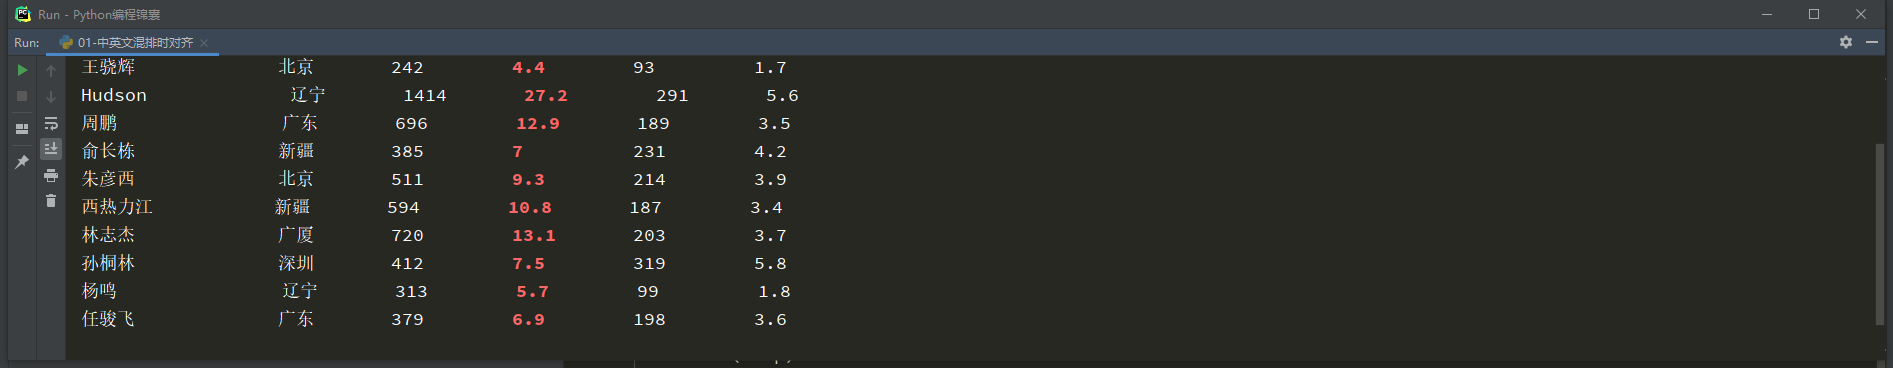
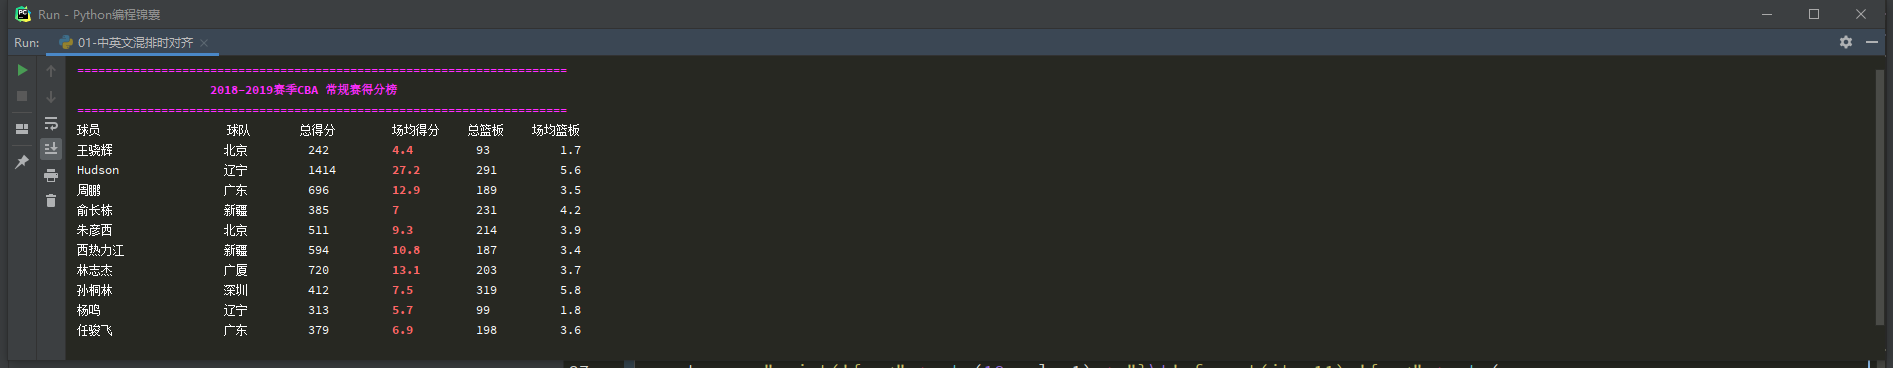
10

diff --git a/第2章_字符串处理/01-中英文混排时对齐.py b/第2章_字符串处理/01-中英文混排时对齐.py
@@ -5,27 +5,30 @@
 # 文件名称 : 01-中英文混排时对齐.PY
 # 开发工具 : PyCharm
 
-menu = '球员               球队      总得分    场均得分    总篮板    场均篮板'      # 项目菜单
-cba = []                                  # 该列表用于保存处理后的数据
+menu = '球员                  球队       总得分        场均得分    总篮板    场均篮板'  # 项目菜单
+cba = []  # 该列表用于保存处理后的数据
 for line in open('cba.txt'):
-    new = line.replace('\t', ',')         # 将每行数据中的“\t”替换为“,”
-    over = new.replace('\n', '')          # 通过替换的方式去除换行符“\n”
-    list1 = over.split(',')               # 将每行数据转换为列表
-    cba.append(list1)                     # 将每行数据添加至cba列表
+    new = line.replace('\t', ',')  # 将每行数据中的“\t”替换为“,”
+    over = new.replace('\n', '')  # 通过替换的方式去除换行符“\n”
+    list1 = over.split(',')  # 将每行数据转换为列表
+    cba.append(list1)  # 将每行数据添加至cba列表
 # print(cba)
 print("\033[1;35m=" * 70)
 print('2018-2019赛季CBA 常规赛得分榜'.center(60))
 print('=' * 70 + '\033[0m')
 print(menu)
 for item in cba:
-    len1 = len(item[0].encode("gbk")) - len(item[0])    # 计算球员名字长度
-    item11 = item[0].ljust(18 - len1)                   # 计算显示球员名字与球队之间的距离
-    len2 = len(item[1].encode("gbk")) - len(item[1])    # 计算球队名称的长度
-    item12 = item[1].ljust(10 - len2)                   # 计算显示球队名称与总得分之间的距离
+    len1 = len(item[0].encode("gbk")) - len(item[0])  # 计算球员名字长度
+    item11 = item[0].ljust(18 - len1)  # 计算显示球员名字与球队之间的距离
+    len2 = len(item[1].encode("gbk")) - len(item[1])  # 计算球队名称的长度
+    item12 = item[1].ljust(10 - len2)  # 计算显示球队名称与总得分之间的距离
     '''实现对齐的代码'''
     # 根据指定距离打印信息
-    temp = "print('{: <"+ str(18 - len1)+"}'.format(item11),'{: <"+ str(10 - len2)+"}'.format(item12),'{: <"+ str(10)+"}'.format(item[2])," \
-         "'\033[1;31m' + '{: <"+ str(10)+"}'.format(item[3]) + '\033[0m','{: <"+ str(10)+"}'.format(item[4]),'{: <"+ str(10)+"}'.format(item[5]))"
+    temp = "print('{: <" + str(18 - len1) + "}\t'.format(item11),'{: <" + str(
+        10 - len2) + "}\t'.format(item12),'{: <" + str(10) + "}\t'.format(item[2])," \
+                                                           "'\033[1;31m' + '{: <" + str(
+        10) + "}\t'.format(item[3]) + '\033[0m','{: <" + str(10) + "}\t'.format(item[4]),'{: <" + str(
+        10) + "}\t'.format(item[5]))"
     exec(temp)
     # 未对齐的代码
     # print('{: <18}'.format(item11),'{: <10}'.format(item12),'{: <10}'.format(item[2])," \
